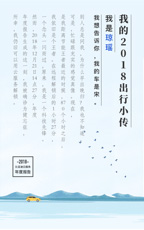
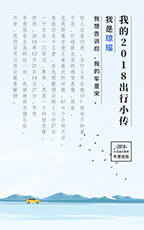
's'

diff --git a/xf-platform/src/pages/bind.vue b/xf-platform/src/pages/bind.vue
@@ -26,7 +26,7 @@
     .bind-form .step2 .hint p span{ font-size: 22px;}
     .bind-form .btns{ position: absolute; bottom: 50px; right: 55px;}
     .bind-frame .anim-item{ animation-duration: 0.5s; animation-timing-function: cubic-bezier(.25,.76,.36,.97)}
-    .bind-frame .warn{ width: 130px; position: absolute; top: 270px; left: 330px; background-color: #e73828; padding: 10px 15px; border-radius: 5px; z-index: 50; font-size: 12px; color: #fff;}
+    .bind-frame .warn{ width: 140px; position: absolute; top: 270px; left: 330px; background-color: #e73828; padding: 10px 15px; border-radius: 5px; z-index: 50; font-size: 12px; color: #fff;}
     .bind-frame .warn:before{ content: ''; width: 10px; height: 10px; border: 5px solid rgba(0,0,0,0); border-right-color: #e73828; position: absolute; top: 50%; left: -10px; margin-top: -5px;}
 
     #bindFrame .ivu-select-placeholder,#bindFrame .ivu-select-selected-value{ width: 270px; height: 40px; border-radius: 5px; box-sizing: border-box; padding: 5px 16px; font-size: 16px; text-align: left; color: rgb(117,117,117)}
@@ -56,7 +56,7 @@
                             <t-button :isDisabled="veriBtnDisabled" size="min" @dotap="getCode">{{codeBtnName}}</t-button>
                         </div>
                         <p class="mb20 tc"><input type="text" placeholder="身份证号" v-model="idsnum" @keyup="inputBlur('idsnum')"></p>
-                        <p class="mb20 tc"><input type="text" placeholder="银行卡号" v-model="banknum"></p>
+                        <p class="mb20 tc"><input type="text" placeholder="银行卡号" v-model="banknum" @keyup="inputBlur('banknum')"></p>
                         <p class="mb20 tc"><input type="text" placeholder="预留手机" v-model="phone" @keyup="inputBlur('phone')"></p>
                         <p class="mb20 tc">
                             <Select v-model="bankcode" style="width:270px; text-align: left;" placeholder="选择银行">
@@ -121,6 +121,10 @@
             idsnumCheck(){
                 let reg = /(^\d{15}$)|(^\d{18}$)|(^\d{17}(\d|X|x)$)/;
                 return reg.test(this.idsnum)
+            },
+            banknumCheck(){
+                let reg = /^[0-9]*$/;
+                return reg.test(this.banknum)
             },
             btnDisabled(){
                 if(this.name != '' && !this.phoneDisabled && this.vericode != '' && this.idsnumCheck && this.banknum != '' && this.bankname != '' && this.bankcode != ''){
@@ -203,6 +207,10 @@
                     this.showWarn = !this.idsnumCheck;
                     this.warnTop = 300;
                     this.warnTxt = '身份证格式不正确';
+                }else if(name == 'banknum'){
+                    this.showWarn = !this.banknumCheck;
+                    this.warnTop = 361;
+                    this.warnTxt = '银行卡号格式不正确';
                 }
             }
         }

diff --git a/report-code/src/components/poster.vue b/report-code/src/components/poster.vue
@@ -120,7 +120,17 @@
                 this.textArr = [];
                 if(this.styleKey == 3)this.textArr.push('2018年，我们度过了激动人心的一年： ');
                 for(let item of this.tagList){
-                    this.textArr.push(data[item]);
+                    if(this.styleKey == 1 && item == '强迫症' || item == '分享达人' || item == '有底气' || item == '有态度' || item == '有计划'){
+                        let date = new Date(),time = '';
+                        time += `${date.getFullYear()}年`;
+                        time += `${date.getMonth()+1}月`;
+                        time += `${date.getDate()}日 `;
+                        time += `${date.getHours()}时`;
+                        time += `${date.getMinutes()}分`;
+                        this.textArr.push(time+data[item]);
+                    }else{
+                        this.textArr.push(data[item]);
+                    }
                 }
                 this.textArr.push(data.add);
             },
@@ -243,7 +253,7 @@
             },
             style3(ctx,res){
                 ctx.drawImage(res[0],0,0);
-                ctx.drawImage(res[1],580,900);
+                ctx.drawImage(res[1],580,1000);
 
                 //姓名
                 ctx.font = 'bold 40px Micro Yahei';

diff --git a/report-code/src/components/page7.vue b/report-code/src/components/page7.vue
@@ -94,7 +94,7 @@
             </li>
         </ul>
 
-        <div class="hint">云服务全年为用户提供<span>{{animTimes}}</span>万次服务</div>
+        <div class="hint">云服务全年为用户提供<span>{{animTimes}}亿</span>次服务</div>
     </section>
 </template>
 
@@ -134,7 +134,7 @@
                     }
                 }
                 this.timesList = arr;
-                TweenLite.to(this.$data,1,{times:this.pageData.totalTimes});
+                TweenLite.to(this.$data,1,{times:this.pageData.totalTimes/10000});
                 setTimeout(()=>{
                     console.log('s')
                     this.showTags = true;
@@ -147,7 +147,7 @@
         },
         computed:{
             animTimes(){
-                return this.times.toFixed(0);
+                return this.times.toFixed(2);
             },
             pageData(){
                 return this.$store.state.pageData.P7

diff --git a/report-code/src/components/page3.vue b/report-code/src/components/page3.vue
@@ -78,7 +78,7 @@
             drawTable(xArr,yArr){
                 this.chart.setOption({
                     title:{text:'每月里程分布',left:'center',bottom:'0',textStyle:{fontSize:14}},
-                    grid:{top:'13%',borderColor:'#2B5FD5'},
+                    grid:{top:'13%',borderColor:'#2B5FD5',left:48},
                     xAxis: {
                         type: 'category',
                         axisTick:{show:false},
@@ -87,7 +87,7 @@
                         boundaryGap:false,
                         data: xArr
                     },
-                    graphic:[{type:'text',style:{text:'(km)',fill:'#2B5FD5',x:12}}],
+                    graphic:[{type:'text',style:{text:'(km)',fill:'#2B5FD5',x:16}}],
                     yAxis: {
                         type: 'value',
                         axisLabel:{color:'#2B5FD5'},

diff --git a/xf-platform/src/components/menu/EditorBank.vue b/xf-platform/src/components/menu/EditorBank.vue
@@ -87,7 +87,7 @@
                 obj.password = this.password;
                 obj.vericode = this.vericode;
                 obj.idnums = this.idsnum;
-                obj.cardnums = this.banknum;
+                obj.cardnums = this.banknum.replace(/\D*/,"");
                 obj.bankname = this.bankname;
                 obj.bankcode = this.bankcode;
                 this.$ajax.post('/client/api/bind_card',qs.stringify(obj)).then(res=>{

diff --git a/xf-platform/config/index.js b/xf-platform/config/index.js
@@ -12,7 +12,7 @@ module.exports = {
     assetsPublicPath: '/',
     proxyTable: {
         '/client':{
-            target:'http://client.pc-online.cc/client',
+            target:'https://editor.leesticket.com/client',//http://client.pc-online.cc/client
             changeOrigin:true,
             pathRewrite:{
                 '^/client':''
